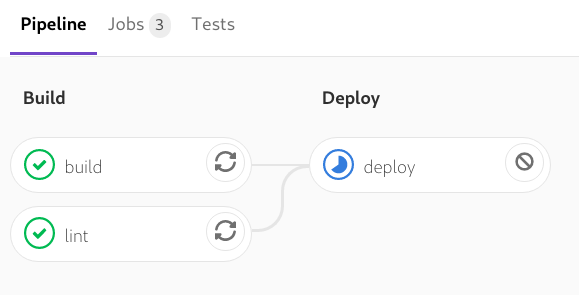
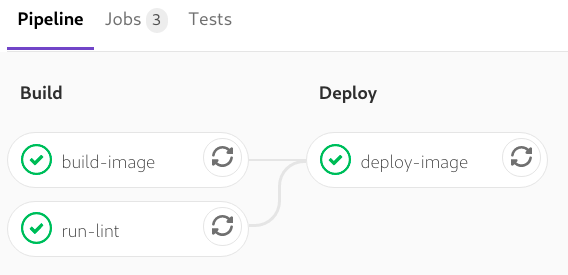
Fixed some text and images in Howto

diff --git a/Migration-Part-4.md b/Migration-Part-4.md
@@ -323,9 +323,10 @@ MYSQL_PASSWORD=zxSVgF9OC7O3bCOqsLOe4Q==
 
 Create the secret:
 ```
-[kamran@kworkhorse simpleapp.demo.wbitt.com]$ ./create-simpleapp-credentials.sh 
+[kamran@kworkhorse simpleapp.demo.wbitt.com]$ ./create-simpleapp-secret.sh 
 First, deleting the old secret: simpleapp-credentials
 Error from server (NotFound): secrets "simpleapp-credentials" not found
+
 Found simpleapp.env file, creating kubernetes secret: simpleapp-credentials
 secret/simpleapp-credentials created
 [kamran@kworkhorse simpleapp.demo.wbitt.com]$ 
@@ -576,7 +577,6 @@ The actual pipeline for this repository will be setup by the `.gitlab-ci.yml` fi
 
 ```
 [kamran@kworkhorse simpleapp.demo.wbitt.com]$ cat .gitlab-ci.yml
-image: php:latest
 stages:
   - build
   - deploy
@@ -584,24 +584,22 @@ stages:
 variables:
   CONTAINER_IMAGE: eu.gcr.io/${GCLOUD_PROJECT_ID}/simpleapp
 
-lint:
+run-lint:
   stage: build
+  image: php:latest
   script:
-    - find -L . -name '*.php' -print0 | xargs -0 -n 1 -P 4 php -ln
+    - find . -name '*.php' -exec php -ln '{}' ';'
   only:
     - master
 
 
-build:
+build-image:
   stage: build
-  # This docker "image" is used by the runner. 
   image: docker:latest
   services:
-    # For this job, "docker in docker" runs as a service, inside the runner,
-    #   so docker commands can find the docker daemon and do their thing.
     - docker:dind
   script:
-    # Notice, this is not "google/cloud-sdk", so we can't use `gcloud auth configure-docker` command.
+    # Notice, this image is not "google/cloud-sdk", so we can't use `gcloud auth configure-docker` command.
     - echo  ${GCLOUD_CREDENTIALS} | docker login -u _json_key --password-stdin https://eu.gcr.io
     - docker build -t ${CONTAINER_IMAGE}:${CI_COMMIT_SHORT_SHA}  .
     - docker push ${CONTAINER_IMAGE}:${CI_COMMIT_SHORT_SHA}
@@ -609,7 +607,7 @@ build:
     - master
 
 
-deploy:
+deploy-image:
   image: google/cloud-sdk
   stage: deploy
   script:
@@ -619,6 +617,7 @@ deploy:
     - echo $GCLOUD_CREDENTIALS > ${HOME}/gcloud-service-key.json
     - gcloud auth activate-service-account --key-file=${HOME}/gcloud-service-key.json
     - gcloud container clusters get-credentials ${GCLOUD_CLUSTER_NAME} --zone ${GCLOUD_ZONE} --project ${GCLOUD_PROJECT_ID}
+    # Application deployment starts here:
     - echo ${SIMPLEAPP_CONFIG_FILE} > simpleapp.conf
     - 'echo "First, deleting the old configmap: configmap-simpleapp-conf"'
     - kubectl delete configmap configmap-simpleapp-conf || true
@@ -627,7 +626,7 @@ deploy:
     - 'echo "First, deleting the old secret: simpleapp-credentials"'
     - kubectl delete secret simpleapp-credentials || true
     - 'echo "Creating kubernetes secret: simpleapp-credentials - using GitLabCI Environment variables"'
-    # Multiline must be broken in a specific way:
+    # Multi-line instructions must be broken in a specific way:
     # https://gitlab.com/gitlab-org/gitlab-runner/issues/166
     - |
       kubectl create secret generic simpleapp-credentials \
@@ -642,6 +641,7 @@ deploy:
     - kubectl apply -f service-ingress.yaml
   only:
     - master
+
 [kamran@kworkhorse simpleapp.demo.wbitt.com]$ 
 ```
 
@@ -650,8 +650,8 @@ The pipeline defined in the `.gitlab-ci.yml` file above, has two stages:
 * deploy
 
 ,where the `build` stage has two jobs inside it:
-* lint
-* build
+* run-lint
+* build-image
 
 ,and the `deploy` stage has just one job inside it:
 * deploy  
@@ -721,13 +721,9 @@ Now, commit and push the `.gitlab-ci.yaml` file along any changes, and the pipel
 | --------------------------------------------------------------- |
 
 
-| ![images/gitlab-ci-pipeline-successful.png](images/gitlab-ci-pipeline-successful.png) |
-| ------------------------------------------------------------------------------------- |
-
-
 | ![images/gitlab-pipeline-jobs-and-stages.png](images/gitlab-pipeline-jobs-and-stages.png) |
 | ----------------------------------------------------------------------------------------- |
-(Note: The above image was added to this document at a later time. That is why you see "10 hours ago" under the timing column.)
+
 
 
 | ![images/gitlab-ci-job-output.png](images/gitlab-ci-job-output.png) |
